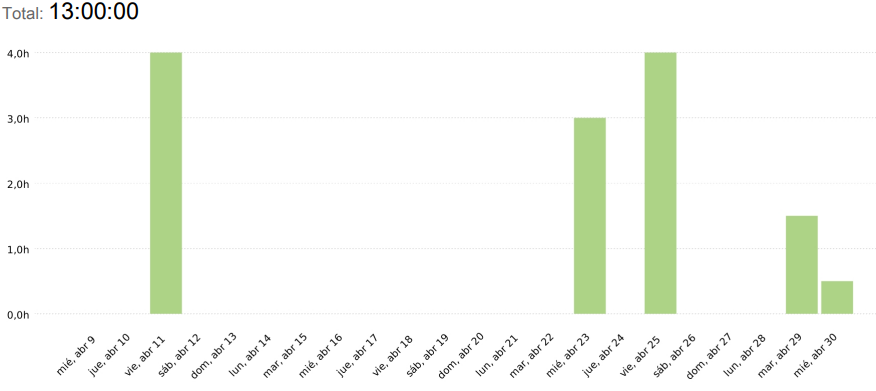
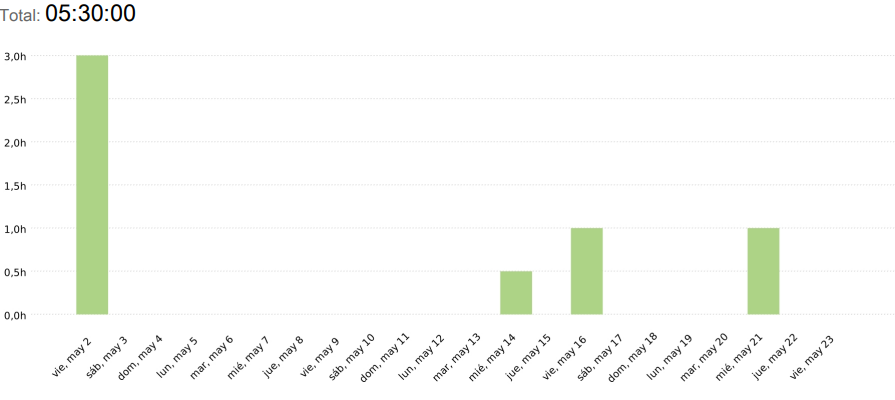
docs(WPL): timeEffort Jorge Gómez de Tovar

diff --git a/docs/WPL/timeEffortReport.md b/docs/WPL/timeEffortReport.md
@@ -171,14 +171,14 @@
 
 ## Reporte de tiempo de Jorge Gomez de Tovar
 
-**Periodo:** 09/04/2025 - 30/04/2025
-**Total de tiempo trabajado:** 13:00:00
+**Periodo:** 02/05/2025 - 22/05/2025
+**Total de tiempo trabajado:** 5:30:00
 
-| Descripción                           | Duración  |
+| Descripción                          | Duración  |
 |--------------------------------------|-----------|
-| Clase                                | 08:00:00  |
-| Informes de tiempo e IA              | 00:30:00  |
-| Presentación PPL                     | 04:30:00  |
+| Clase                                | 04:00:00  |
+| Presentacion rendimiento             | 00:30:00  |
+| Reunión WPL                          | 01:00:00  |
 
 
 ![grafico-de-tiempos](graficas/jorge.png)
